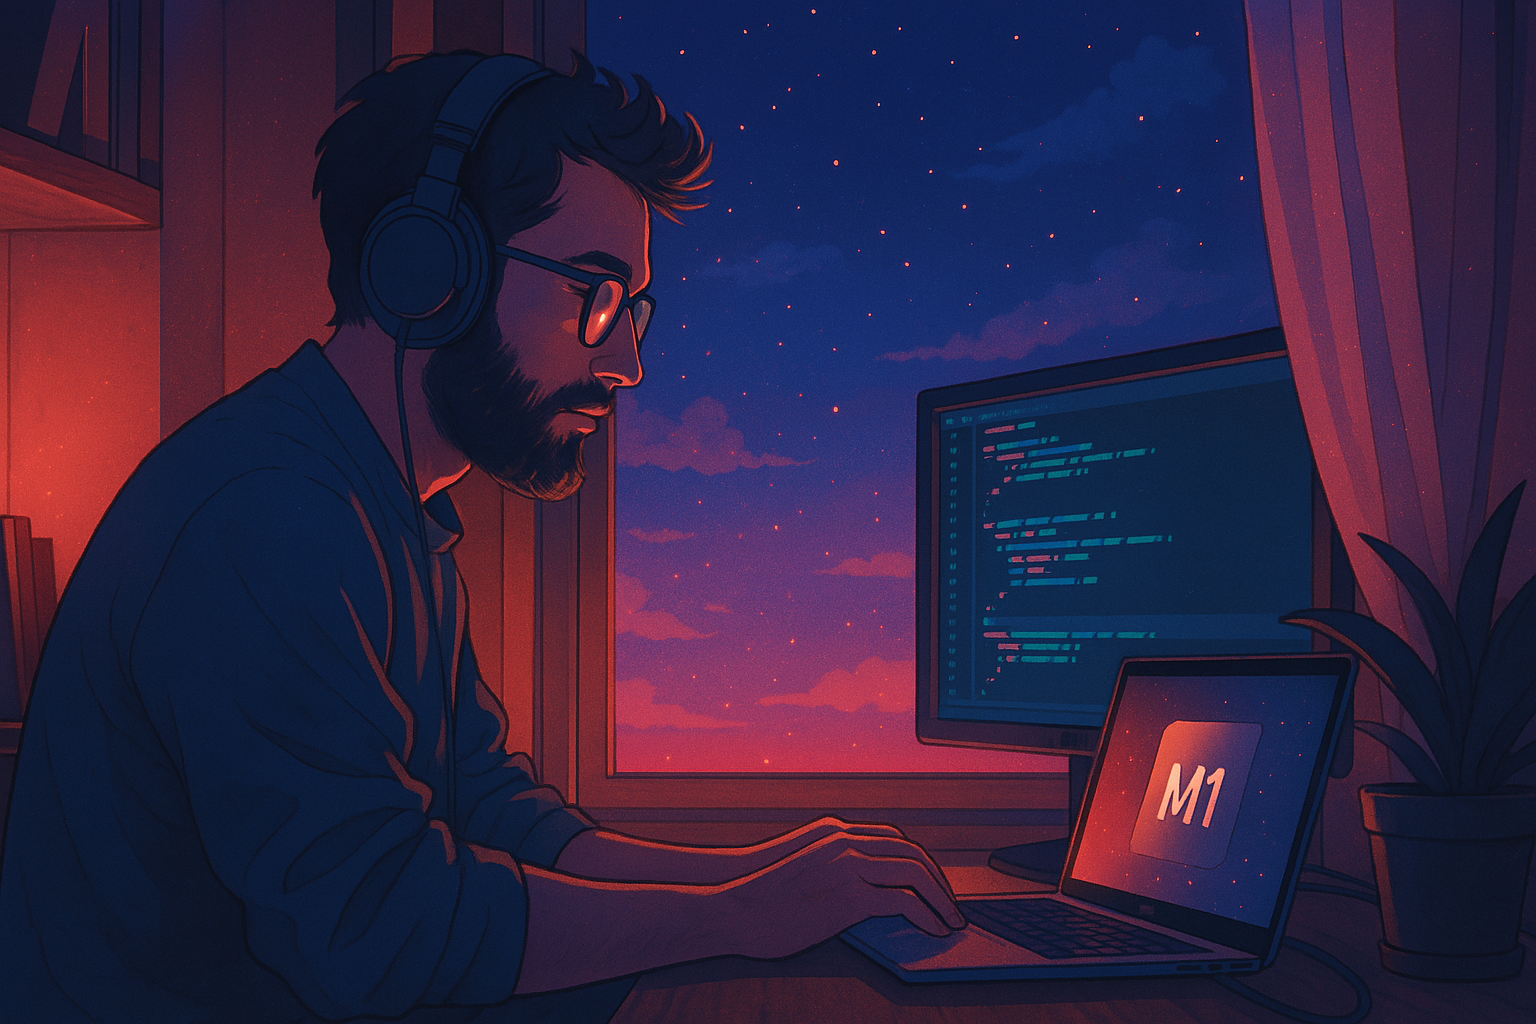
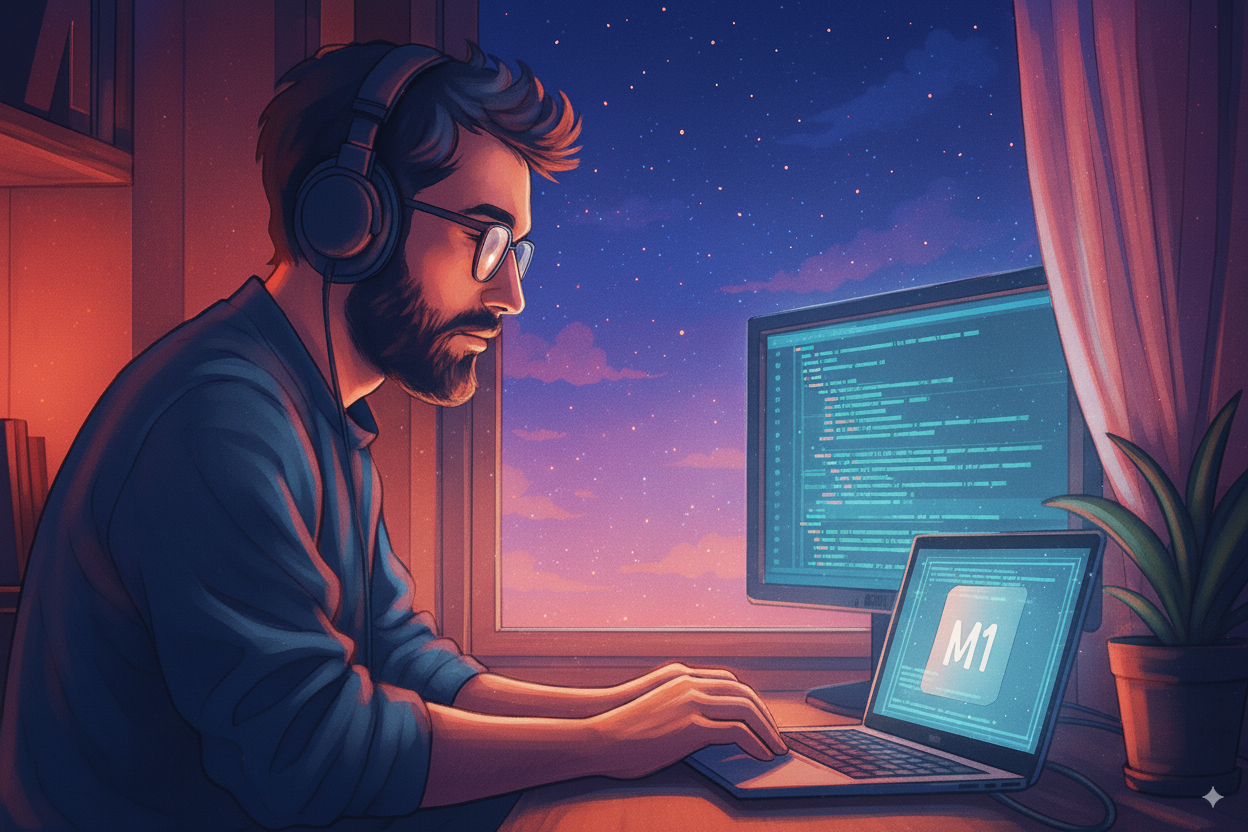
better ilumination, migrate to webp

diff --git a/src/components/BlogPost.js b/src/components/BlogPost.js
@@ -72,28 +72,66 @@ function BlogPost() {
     const renderPostContent = (content) => {
         const contentParts = content.split(/\{\{\{Juego:(\w+)\}\}\}/g);
 
-        return contentParts.map((part, index) => {
-            if (gameRegistry[part] && gameRegistry[part].path) {
-                const GameComponent = React.lazy(gameRegistry[part].path);
-                return (
-                    <Suspense key={index} fallback={<div>Loading...</div>}>
-                        <div className="game-container my-4">
-                            <GameComponent />
-                        </div>
-                    </Suspense>
-                );
+        const result = [];
+        for (let i = 0; i < contentParts.length; i++) {
+            const part = contentParts[i];
+
+            // Si es un índice par, es contenido normal
+            if (i % 2 === 0) {
+                if (part) { // Solo renderizar si no está vacío
+                    result.push(
+                        <div
+                            key={i}
+                            className="content-part"
+                            dangerouslySetInnerHTML={{
+                                __html: part.replace(/<img /g, '<img class="img-fluid" ')
+                            }}
+                        />
+                    );
+                }
             } else {
-                return (
-                    <div
-                        key={index}
-                        className="content-part"
-                        dangerouslySetInnerHTML={{
-                            __html: part.replace(/<img /g, '<img class="img-fluid" ')
-                        }}
-                    />
-                );
+                // Si es un índice impar, es el nombre del juego/herramienta
+                // Buscar de forma case-insensitive
+                const findGameOrTool = (name) => {
+                    const lowerName = name.toLowerCase();
+
+                    // Buscar en juegos
+                    for (const key in gameRegistry.games) {
+                        if (key.toLowerCase() === lowerName) {
+                            return gameRegistry.games[key];
+                        }
+                    }
+
+                    // Buscar en herramientas
+                    for (const key in gameRegistry.tools) {
+                        if (key.toLowerCase() === lowerName) {
+                            return gameRegistry.tools[key];
+                        }
+                    }
+
+                    return null;
+                };
+
+                const gameInfo = findGameOrTool(part);
+
+
+
+                if (gameInfo && gameInfo.path) {
+                    const GameComponent = React.lazy(gameInfo.path);
+                    result.push(
+                        <Suspense key={i} fallback={<div>Loading...</div>}>
+                            <div className="game-container my-4">
+                                <GameComponent />
+                            </div>
+                        </Suspense>
+                    );
+                } else {
+                    console.warn(`Juego/herramienta no encontrado: ${part}`);
+                }
             }
-        });
+        }
+
+        return result;
     };
 
     if (!post) {

diff --git a/public/index.html b/public/index.html
@@ -6,8 +6,15 @@
   <link rel="icon" href="%PUBLIC_URL%/favicon.ico" />
   <meta name="viewport" content="width=device-width, initial-scale=1" />
   <meta name="theme-color" content="#000000" />
+  <!-- Permissions Policy to resolve compute-pressure violation -->
+  <meta http-equiv="Permissions-Policy"
+    content="compute-pressure=(self), interest-cohort=(), browsing-topics=(), attribution-reporting=(), camera=(), microphone=(), geolocation=(), autoplay=(self), fullscreen=(self), payment=(), usb=(), magnetometer=(), gyroscope=(), accelerometer=()" />
+  <!-- Content Security Policy for additional security -->
+  <meta http-equiv="Content-Security-Policy"
+    content="default-src 'self'; script-src 'self' 'unsafe-inline' 'unsafe-eval' https://www.googletagmanager.com https://cdn.jsdelivr.net; style-src 'self' 'unsafe-inline'; img-src 'self' data: https: blob:; connect-src 'self' https://*.dantecollazzi.com https://dantecollazzi.com https://api.dantecollazzi.com https://*.google-analytics.com https://region1.google-analytics.com https://*.firebase.googleapis.com https://firebase.googleapis.com blob:; frame-src 'self' https://www.youtube.com https://youtube.com;" />
   <!-- Meta description will be set dynamically by React Helmet -->
 
+  <link rel="icon" href="%PUBLIC_URL%/logo.webp" type="image/webp" />
   <link rel="icon" href="%PUBLIC_URL%/logo_backup.png" type="image/png" />
   <!--
       manifest.json provides metadata used when your web app is installed on a

diff --git a/src/components/GamePage.js b/src/components/GamePage.js
@@ -4,12 +4,12 @@ import SEO from './SEO';
 
 import '../css/GamePage.css';
 import footballImage from '../images/mamvsreptiles.webp';
-import snakeImage from '../images/snake-game.png';
-import snake3dImage from '../images/snake-3d.png';
-import pongImage from '../images/pong-game.png';
-import handInvadersImage from '../images/hand-invaders-preview.png';
-import supermarcosImage from '../images/supermarcos.png';
-import guessCountryImage from '../images/guess-country.png';
+import snakeImage from '../images/snake-game.webp';
+import snake3dImage from '../images/snake-3d.webp';
+import pongImage from '../images/pong-game.webp';
+import handInvadersImage from '../images/hand-invaders-preview.webp';
+import supermarcosImage from '../images/supermarcos.webp';
+import guessCountryImage from '../images/guess-country.webp';
 
 const GamesPage = () => {
     const [selectedGame, setSelectedGame] = useState(null);

diff --git a/src/components/GameRegistry.js b/src/components/GameRegistry.js
@@ -1,10 +1,10 @@
 // GameRegistry.js
-import snakeImage from '../images/snake-game.png';
-import snake3dImage from '../images/snake-3d.png';
-import pongImage from '../images/pong-game.png';
-import handInvadersImage from '../images/hand-invaders-preview.png';
-import supermarcosImage from '../images/supermarcos.png';
-import guessCountryImage from '../images/guess-country.png';
+import snakeImage from '../images/snake-game.webp';
+import snake3dImage from '../images/snake-3d.webp';
+import pongImage from '../images/pong-game.webp';
+import handInvadersImage from '../images/hand-invaders-preview.webp';
+import supermarcosImage from '../images/supermarcos.webp';
+import guessCountryImage from '../images/guess-country.webp';
 
 const placeholder = 'https://via.placeholder.com/300x180?text=';
 

diff --git a/src/App.js b/src/App.js
@@ -18,6 +18,7 @@ import Contact from './components/Contact';
 import GamePlayer from './components/GamePlayer';
 import Tools from './components/Tools';
 import ToolPlayer from './components/ToolPlayer';
+
 import 'bootstrap/dist/css/bootstrap.min.css';
 import './App.css';
 
@@ -38,6 +39,7 @@ function App() {
               <Route path="/games/:gameId" element={<GamePlayer />} />
               <Route path="/tools" element={<Tools />} />
               <Route path="/tools/:toolId" element={<ToolPlayer />} />
+
               <Route path="/error" element={<ErrorComponent />} />
               <Route path="/contact" element={<Contact />} />
               <Route path="/edit" element={

diff --git a/src/components/Home.js b/src/components/Home.js
@@ -7,7 +7,7 @@ import '../css/home.css';
 // Remove the ThreeJS import if you're not using it elsewhere
 // import ThreeJSCSS3DSprites from './juegos/ThreeJSCSS3DSprites';
 import ThreeJSCSS3DSprites from './juegos/ThreeJSCSS3DSprites'; // <--- Importa el componente 3D
-import developerIllustration from '../images/developer-illustration.png'; // <-- Import the image
+import developerIllustration from '../images/developer-illustration.webp'; // <-- Import the image
 
 function Home() {
   const technologies = ['Java', 'Python', 'React', 'Node.js', 'SQL', 'Git', 'AI-assisted development', 'Flutter'];

diff --git a/src/components/Header.js b/src/components/Header.js
@@ -1,7 +1,7 @@
 import React, { useState, useEffect } from 'react';
 import { Link, useLocation } from 'react-router-dom';
 import '../css/header.css';
-import logoImage from '../images/logo.png'; // Asegúrate de que la ruta sea correcta
+import logoImage from '../images/logo.webp'; // Asegúrate de que la ruta sea correcta
 
 const Header = () => {
   const [username, setUsername] = useState('');

diff --git a/src/components/About.js b/src/components/About.js
@@ -1,7 +1,7 @@
 import React from 'react';
 import SEO from './SEO';
 import '../css/about.css';
-import profileImage from '../images/yo.png';
+import profileImage from '../images/yo.webp';
 
 function About() {
   return (

diff --git a/README.md b/README.md
@@ -4,7 +4,7 @@ This is the source code for my personal website, **petalo9.com**, which features
 
 
 hola
-![Website Preview](./image.png)
+
 
 ## Features
 
